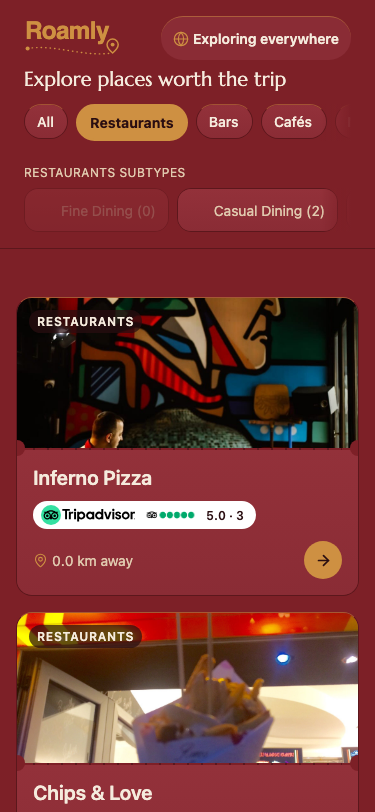
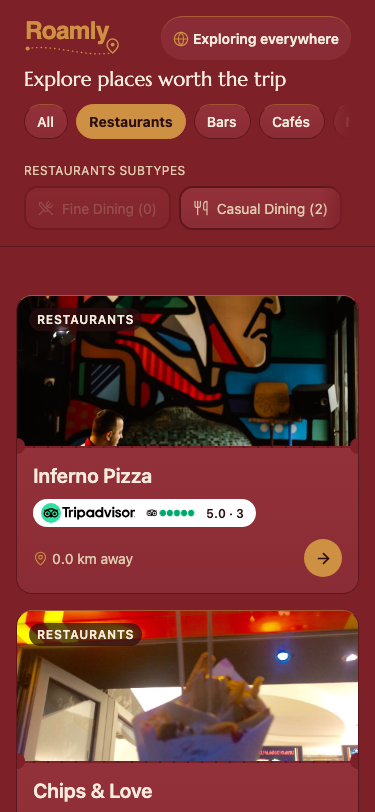
T3: resolve review round 1 — 4 important + 8 minor
Important:
- SubtypeRail icon painted under the unselected gradient (RNW gives Text
  position:relative but not a bare svg) — wrap Icon in a View so it's
  promoted into the same positioned paint layer.
- Subtype counts collapsed to 0 (disabling every chip) during any refetch
  or error, since counts read straight off queryState. Added
  lastLoadedActivities, updated only on success, used for subtypeCounts.
- Fixed the resulting selected-chip-gets-stuck bug: disabled = count===0
  && !selected.
- 4 unhandled AsyncStorage promises in nearbyNudge.ts/travelerMode.ts —
  wrapped in try/catch with safe defaults, root-caused once per module
  instead of patching each call site.

Minor:
- FilterChip/SubtypeRail: focus/selected no longer bump border width
  (colour-only change, matches "never a width change" rule).
- feedContext: widened the ponytail comment + added a real (if filler)
  Nearby+traveler line instead of silently falling through to non-traveler
  copy; flagged as a design gap (no reverse-geocode to name a city for
  Nearby).
- FeedHeader now reads hourAtLastFocus, not a live clock read, so the
  context line can't disagree with the frozen pill order.
- useNearbyLocation.checkPermission now resolves granted/not, and the Feed
  uses it to silently resolve an already-granted permission's fix instead
  of showing a stale "Turn on location" nudge forever.
- Added a real before/after pill-order assertion around a category tap
[…]

diff --git a/app/src/features/activity-list/ActivityListScreen.tsx b/app/src/features/activity-list/ActivityListScreen.tsx
@@ -66,6 +66,13 @@ export function ActivityListScreen({
   const [queryState, setQueryState] = useState<QueryState>(() =>
     initialActivities !== undefined ? { status: 'loaded', activities: initialActivities } : { status: 'loading' }
   );
+  // The subtype rail's counts read from this, not from `queryState`
+  // directly — `queryState` collapses to no-activities during a refetch or
+  // on error, which would otherwise zero every subtype's count and disable
+  // it (including a chip the user has *selected*, trapping them). This only
+  // ever updates on a successful fetch, so it holds the last real data
+  // across any loading/error state in between.
+  const [lastLoadedActivities, setLastLoadedActivities] = useState<Activity[]>(() => initialActivities ?? []);
   const [sheetVisible, setSheetVisible] = useState(false);
   const [selectedActivity, setSelectedActivity] = useState<Activity | null>(null);
   const filtersRequestSeq = useRef(0);
@@ -92,6 +99,7 @@ export function ActivityListScreen({
   function applyResult(result: ActivitiesQueryResult) {
     if (result.status === 'success') {
       setQueryState({ status: 'loaded', activities: result.activities });
+      setLastLoadedActivities(result.activities);
     } else {
       setQueryState({ status: 'error', message: result.message });
     }
@@ -184,10 +192,19 @@ export function ActivityListScreen({
     isNearbyNudgeDismissed().then(setNudgeDismissed);
   }, []);
   useEffect(() => {
-    if (appliedScopeDraft.scope === 'anywhere' && !appliedScopeDraft.coordinates) {
-      nearby.checkPermission();
-    }
-    // eslint-disable-next-line react-hooks/exhaustive-deps -- nearby.checkPermission's identity is stable (useCallback, no deps)
+    if (appliedScopeDraft.scope !== 'anywhere' || appliedScopeDraft.coordinates) return;
+    // If permission was already granted (e.g. in an earlier session/screen),
+    // `requestLocation` never shows an OS prompt for an already-granted
+    // permission — it just resolves the fix quietly. Without this, a user
+    // who'd already granted location would still see the "Turn on location"
+    // nudge forever, since nothing here had ever actually fetched a fix.
+    nearby.checkPermission().then((granted) => {
+      if (!granted) return;
+      nearby.requestLocation().then((coordinates) => {
+        if (coordinates) setAppliedScopeDraft((prev) => ({ ...prev, coordinates }));
+      });
+    });
+    // eslint-disable-next-line react-hooks/exhaustive-deps -- nearby.checkPermission/requestLocation identities are stable (useCallback, no deps)
   }, [appliedScopeDraft.scope, appliedScopeDraft.coordinates]);
 
   useEffect(() => {
@@ -251,7 +268,15 @@ export function ActivityListScreen({
   // merely "no device coordinates").
   const unanchoredAnywhere =
     appliedScopeDraft.scope === 'anywhere' && !appliedScopeDraft.coordinates && appliedScopeDraft.cities.length === 0;
-  const showAskNudge = unanchoredAnywhere && nearby.state.status !== 'denied' && !nudgeDismissed;
+  // 'locating'/'requesting-permission' only happen transiently while the
+  // effect above is silently resolving an already-granted permission's fix
+  // — neither nudge shows during that brief window (showing "Turn on
+  // location" would be actively wrong: it's already on). 'idle' covers both
+  // "not asked yet" and "briefly, before the mount check resolves".
+  const showAskNudge =
+    unanchoredAnywhere &&
+    !nudgeDismissed &&
+    (nearby.state.status === 'idle' || nearby.state.status === 'unavailable');
   const showCityNudge = unanchoredAnywhere && nearby.state.status === 'denied';
 
   const renderItem = useCallback(
@@ -291,10 +316,14 @@ export function ActivityListScreen({
             sticky-after-collapse). Upgrade path: an Animated.ScrollView +
             interpolated header height, if this is flagged as a real gap. */}
         <View style={styles.header}>
+          {/* `hourAtLastFocus`, not a live `new Date().getHours()` — the
+              pill row's own order is frozen to this same value (see
+              `refreshAdaptivity`), so the context line and the row never
+              disagree across an hour-bucket boundary mid-session. */}
           <FeedHeader
             scope={appliedScopeDraft.scope}
             cities={appliedScopeDraft.cities}
-            hour={new Date().getHours()}
+            hour={hourAtLastFocus}
             travelerMode={travelerMode}
             onOpenScope={() => setSheetVisible(true)}
           />
@@ -308,7 +337,7 @@ export function ActivityListScreen({
             <SubtypeRail
               key={option.value}
               category={option.value}
-              counts={subtypeCounts(categoryScopedActivities, option.value)}
+              counts={subtypeCounts(lastLoadedActivities, option.value)}
               selectedSubtypes={appliedFilters.subtypes}
               onToggle={handleToggleSubtype}
             />

diff --git a/app/src/features/activity-list/SubtypeRail.tsx b/app/src/features/activity-list/SubtypeRail.tsx
@@ -101,7 +101,12 @@ function SubtypeChip({
     // eslint-disable-next-line react-hooks/exhaustive-deps -- entrance/index are stable per chip instance
   }, []);
 
-  const disabled = count === 0;
+  // A currently-selected chip stays interactive even if its live count
+  // drops to 0 during a refetch/scope change — otherwise a user's own
+  // selection could become permanently stuck with no way to deselect it
+  // (the category pill and EmptyState's Clear filters would be the only
+  // remaining escapes).
+  const disabled = count === 0 && !selected;
 
   return (
     <Animated.View
@@ -126,7 +131,15 @@ function SubtypeChip({
         {!selected && (
           <LinearGradient colors={colors.surfaceGradient} style={StyleSheet.absoluteFill} pointerEvents="none" />
         )}
-        <Icon size={16} color={disabled ? colors.textDisabled : selected ? colors.primary : colors.textMuted} strokeWidth={1.75} />
+        {/* Wrapped in a View — react-native-web gives a bare `<svg>` (the
+            lucide icon) no `position`, so it stays in the "static" paint
+            layer, below the absolutely-positioned gradient regardless of
+            DOM order; a plain View defaults to `position:'relative'` (like
+            RNW's own Text), promoting the icon into the same positioned
+            layer so it paints above the gradient, per its later DOM order. */}
+        <View>
+          <Icon size={16} color={disabled ? colors.textDisabled : selected ? colors.primary : colors.textMuted} strokeWidth={1.75} />
+        </View>
         <Text style={[styles.label, selected && styles.labelSelected, disabled && styles.labelDisabled]} numberOfLines={1}>
           {label} ({count})
         </Text>
@@ -160,7 +173,10 @@ const styles = StyleSheet.create({
     gap: space[2],
     minHeight: 44,
     borderRadius: CHIP_RADIUS,
-    borderWidth: 1,
+    // Constant 2px across selected/unselected (colour-only change) — same
+    // "never a bare hairline, never a width change" rule the category row
+    // follows; a 1px->2px jump on select would reflow the chip by a pixel.
+    borderWidth: 2,
     borderColor: colors.border,
     paddingHorizontal: space[3],
     overflow: 'hidden',
@@ -168,7 +184,6 @@ const styles = StyleSheet.create({
     outlineWidth: 0,
   },
   chipSelected: {
-    borderWidth: 2,
     borderColor: colors.primary,
     backgroundColor: SELECTED_TINT,
   },

diff --git a/app/src/features/activity-list/ActivityListScreen.test.tsx b/app/src/features/activity-list/ActivityListScreen.test.tsx
@@ -211,6 +211,41 @@ describe('ActivityListScreen', () => {
       expect(screen.getByRole('button', { name: 'All categories' })).toBeTruthy();
     });
 
+    it('tapping a pill never reorders the row — same pill stays in the same slot, including itself', async () => {
+      mockedQuery.mockResolvedValueOnce(successResult([activity]));
+      render(<ActivityListScreen selection={{ scope: 'nearby', coordinates: COORDINATES }} onBack={jest.fn()} />);
+      await waitFor(() => expect(screen.getByText('Skadarlija Food Walk')).toBeTruthy());
+
+      const categoryLabels = [
+        'All', 'Restaurants', 'Cafés', 'Bars', 'Nightlife', 'Nature', 'Sport', 'Kids', 'Culture', 'Art', 'Wellness', 'Shopping', 'Entertainment', 'Tours & Experiences',
+      ];
+      function categoryPillOrder() {
+        return screen
+          .getAllByRole('button')
+          .map((b) => (b.props.accessibilityLabel as string).replace(/, selected$/, '').replace(/^All categories$/, 'All'))
+          .filter((name) => categoryLabels.includes(name));
+      }
+
+      // Captured, not asserted against a fixed taxonomy order — real wall-
+      // clock time at test-run may float 2-3 categories to the front
+      // (categoryOrder.ts); this test only cares that selecting never
+      // changes whatever order it started in.
+      const before = categoryPillOrder();
+      expect(before).toHaveLength(categoryLabels.length);
+
+      mockedQuery.mockResolvedValueOnce(successResult([activity]));
+      await act(async () => {
+        fireEvent.press(screen.getByRole('button', { name: 'Sport' }));
+      });
+      expect(categoryPillOrder()).toEqual(before);
+
+      mockedQuery.mockResolvedValueOnce(successResult([activity]));
+      await act(async () => {
+        fireEvent.press(screen.getByRole('button', { name: 'Sport, selected' }));
+      });
+      expect(categoryPillOrder()).toEqual(before);
+    });
+
     it('deselecting the last selected category returns All to active and drops categories from the request', async () => {
       mockedQuery.mockResolvedValueOnce(successResult([activity]));
       render(<ActivityListScreen selection={{ scope: 'nearby', coordinates: COORDINATES }} onBack={jest.fn()} />);

diff --git a/app/src/features/activity-list/feedContext.ts b/app/src/features/activity-list/feedContext.ts
@@ -21,9 +21,17 @@ export function scopePillInfo(scope: Scope, cities: CitySuggestion[]): ScopePill
 // ponytail: design-spec.md T3's context-line examples name four cases
 // explicitly ("This morning near you" / "Tonight near you" / "Exploring
 // Barcelona & Lisbon" / traveler's "New in town? The best of {city}") but
-// don't cover every reachable state (Nearby at midday, Anywhere cold start)
-// — the unlisted branches below are this task's own filler copy, not spec
-// text. Swap for real copy if a design pass ever covers these two states.
+// don't cover every reachable state — this task's own filler copy below,
+// not spec text, for THREE unlisted cases: Nearby at midday, Anywhere cold
+// start, and — the one the spec's own traveler line can't reach at all —
+// traveler mode while scope is Nearby. Traveler detection only needs a
+// device fix (works for Nearby), but naming a city needs a *chosen* city
+// (`cities[0]`, Anywhere-only) — there's no reverse-geocode in this app to
+// turn a Nearby coordinate into a city name, so Nearby traveler mode can
+// never render the spec's literal "{city}" line. Real design gap, not
+// something to resolve by inventing a geocoding feature inline; flagged for
+// the designer/orchestrator. Filler below at least surfaces the traveler
+// signal instead of silently reusing the non-traveler Nearby copy.
 export function contextLine(
   scope: Scope,
   cities: CitySuggestion[],
@@ -31,6 +39,7 @@ export function contextLine(
   travelerMode: boolean
 ): string {
   if (scope === 'nearby') {
+    if (travelerMode) return 'New in town? Worth seeing nearby';
     const bucket = timeBucket(hour);
     if (bucket === 'morning') return 'This morning near you';
     if (bucket === 'evening' || bucket === 'late-night') return 'Tonight near you';

diff --git a/app/src/features/activity-list/travelerMode.ts b/app/src/features/activity-list/travelerMode.ts
@@ -10,10 +10,13 @@ const MAX_SAMPLES = 10;
 const MIN_SAMPLES_FOR_HOME_BASE = 3;
 export const TRAVELER_DISTANCE_KM = 150;
 
+// APP_STANDARDS.md Error handling: a rejected/garbled read resolves to "no
+// samples yet" here, once — every caller (including `recordHomeBaseSample`
+// below) gets a safe value instead of an uncaught rejection.
 export async function getHomeBaseSamples(): Promise<Coordinates[]> {
-  const raw = await AsyncStorage.getItem(HOME_BASE_KEY);
-  if (!raw) return [];
   try {
+    const raw = await AsyncStorage.getItem(HOME_BASE_KEY);
+    if (!raw) return [];
     return JSON.parse(raw) as Coordinates[];
   } catch {
     return [];
@@ -22,11 +25,17 @@ export async function getHomeBaseSamples(): Promise<Coordinates[]> {
 
 // Called whenever a fresh, granted device-location fix comes in (Nearby
 // scope always implies one). Appends and caps at MAX_SAMPLES, dropping the
-// oldest — a plain FIFO ring, no weighting/decay.
+// oldest — a plain FIFO ring, no weighting/decay. A failed write silently
+// drops this one sample (best-effort adaptivity signal, nothing user-facing
+// to retry/error into) rather than throwing.
 export async function recordHomeBaseSample(sample: Coordinates): Promise<void> {
-  const samples = await getHomeBaseSamples();
-  const next = [...samples, sample].slice(-MAX_SAMPLES);
-  await AsyncStorage.setItem(HOME_BASE_KEY, JSON.stringify(next));
+  try {
+    const samples = await getHomeBaseSamples();
+    const next = [...samples, sample].slice(-MAX_SAMPLES);
+    await AsyncStorage.setItem(HOME_BASE_KEY, JSON.stringify(next));
+  } catch {
+    // ponytail: swallowed — see comment above, same low-stakes local flag reasoning.
+  }
 }
 
 function median(values: number[]): number {

diff --git a/app/src/features/scope-picker/useNearbyLocation.ts b/app/src/features/scope-picker/useNearbyLocation.ts
@@ -19,9 +19,12 @@ type UseNearbyLocation = {
    * caller detect an already-denied permission on mount/open (e.g. the Scope
    * sheet's Nearby pane) without requestLocation's "Turn on location" tap,
    * which would OS-prompt an undetermined user just by checking. Leaves
-   * `state` alone unless already denied.
+   * `state` alone unless already denied. Resolves `true` when permission is
+   * already granted — lets a caller (e.g. the Feed's nearby-nudge) tell
+   * "already granted, just needs a fix" apart from "genuinely not asked yet"
+   * without itself duplicating the permission-status lookup.
    */
-  checkPermission: () => Promise<void>;
+  checkPermission: () => Promise<boolean>;
 };
 
 // Encapsulates a scope ticket's async location flow (permission check →
@@ -35,11 +38,12 @@ export function useNearbyLocation(): UseNearbyLocation {
 
   // Shares requestLocation's first check (below) but stops there — no
   // request prompt, no GPS fetch — so it's safe to call passively on mount.
-  const checkPermission = useCallback(async (): Promise<void> => {
+  const checkPermission = useCallback(async (): Promise<boolean> => {
     const current = await Location.getForegroundPermissionsAsync();
     if (current.status === Location.PermissionStatus.DENIED) {
       setState({ status: 'denied' });
     }
+    return current.status === Location.PermissionStatus.GRANTED;
   }, []);
 
   const requestLocation = useCallback(async (): Promise<Coordinates | null> => {

diff --git a/app/src/features/activity-list/nearbyNudge.ts b/app/src/features/activity-list/nearbyNudge.ts
@@ -7,10 +7,25 @@ import AsyncStorage from '@react-native-async-storage/async-storage';
 // AsyncStorage directly with its own key rather than sharing a wrapper.
 const NEARBY_NUDGE_DISMISSED_KEY = 'roamly:nearby-nudge-dismissed';
 
+// APP_STANDARDS.md Error handling: a rejected AsyncStorage call is handled
+// here, once, rather than trusting every caller to remember its own
+// `.catch` — a read failure just means "not dismissed yet" (safe default,
+// same as never having dismissed).
 export async function isNearbyNudgeDismissed(): Promise<boolean> {
-  return (await AsyncStorage.getItem(NEARBY_NUDGE_DISMISSED_KEY)) === 'true';
+  try {
+    return (await AsyncStorage.getItem(NEARBY_NUDGE_DISMISSED_KEY)) === 'true';
+  } catch {
+    return false;
+  }
 }
 
+// A failed write silently drops the dismissal (the nudge may reappear next
+// launch) rather than surfacing an error for a low-stakes, no-UI local flag.
 export async function dismissNearbyNudge(): Promise<void> {
-  await AsyncStorage.setItem(NEARBY_NUDGE_DISMISSED_KEY, 'true');
+  try {
+    await AsyncStorage.setItem(NEARBY_NUDGE_DISMISSED_KEY, 'true');
+  } catch {
+    // ponytail: swallowed — no UI reachable from this local-only flag to
+    // surface a retry/error into; worst case the nudge shows again next launch.
+  }
 }

diff --git a/app/src/features/scope-picker/useNearbyLocation.test.ts b/app/src/features/scope-picker/useNearbyLocation.test.ts
@@ -103,5 +103,25 @@ describe('useNearbyLocation', () => {
       expect(result.current.state).toEqual({ status: 'idle' });
       expect(mockedLocation.requestForegroundPermissionsAsync).not.toHaveBeenCalled();
     });
+
+    it('resolves true when permission is already granted', async () => {
+      mockedLocation.getForegroundPermissionsAsync.mockResolvedValue({ status: 'granted' } as never);
+      const { result } = renderHook(() => useNearbyLocation());
+      let granted!: boolean;
+      await act(async () => {
+        granted = await result.current.checkPermission();
+      });
+      expect(granted).toBe(true);
+    });
+
+    it('resolves false when undetermined or denied', async () => {
+      mockedLocation.getForegroundPermissionsAsync.mockResolvedValue({ status: 'undetermined' } as never);
+      const { result } = renderHook(() => useNearbyLocation());
+      let granted!: boolean;
+      await act(async () => {
+        granted = await result.current.checkPermission();
+      });
+      expect(granted).toBe(false);
+    });
   });
 });

diff --git a/app/src/features/activity-list/SubtypeRail.test.tsx b/app/src/features/activity-list/SubtypeRail.test.tsx
@@ -67,6 +67,18 @@ describe('SubtypeRail', () => {
     expect(chip.props.accessibilityState).toMatchObject({ selected: true });
   });
 
+  it('a selected chip stays enabled even when its live count drops to 0 (e.g. mid-refetch) — must stay deselectable', async () => {
+    const onToggle = jest.fn();
+    render(
+      <SubtypeRail category="sport" counts={{ climbing_gym: 0 }} selectedSubtypes={['climbing_gym']} onToggle={onToggle} />
+    );
+    await flush();
+    const chip = screen.getByRole('button', { name: /climbing gym.*0 results/i });
+    expect(chip.props.accessibilityState).toMatchObject({ selected: true, disabled: false });
+    fireEvent.press(chip);
+    expect(onToggle).toHaveBeenCalledWith('climbing_gym');
+  });
+
   it('reduced motion renders chips fully visible immediately (no stagger to wait out)', async () => {
     render(<SubtypeRail category="cafes" counts={{}} selectedSubtypes={[]} onToggle={jest.fn()} />);
     await flush();

diff --git a/app/src/components/FilterChip.test.tsx b/app/src/components/FilterChip.test.tsx
@@ -45,11 +45,11 @@ describe('FilterChip', () => {
       expect(onPress).toHaveBeenCalledTimes(1);
     });
 
-    it('focus swaps to the 2px primary focus border', () => {
+    it('focus swaps the border colour only — width stays the constant 1.5px (design-spec.md T3)', () => {
       render(<FilterChip variant="segment" label="Culture" selected={false} onPress={jest.fn()} />);
       const chip = screen.getByRole('button', { name: 'Culture' });
       fireEvent(chip, 'focus');
-      expect(StyleSheet.flatten(chip.props.style)).toMatchObject({ borderWidth: 2, borderColor: '#CE9042' });
+      expect(StyleSheet.flatten(chip.props.style)).toMatchObject({ borderWidth: 1.5, borderColor: '#CE9042' });
     });
 
     it('T4: accessibilityLabel overrides the derived name (visible label unaffected)', () => {

diff --git a/app/src/features/activity-list/travelerMode.test.ts b/app/src/features/activity-list/travelerMode.test.ts
@@ -89,4 +89,14 @@ describe('home base sample persistence', () => {
     expect(samples[0]).toEqual({ latitude: 2, longitude: 2 });
     expect(samples[9]).toEqual({ latitude: 11, longitude: 11 });
   });
+
+  it('a rejected read resolves to an empty list instead of throwing', async () => {
+    jest.spyOn(AsyncStorage, 'getItem').mockRejectedValueOnce(new Error('boom'));
+    await expect(getHomeBaseSamples()).resolves.toEqual([]);
+  });
+
+  it('a rejected write resolves instead of throwing (sample just does not persist)', async () => {
+    jest.spyOn(AsyncStorage, 'setItem').mockRejectedValueOnce(new Error('boom'));
+    await expect(recordHomeBaseSample(BELGRADE)).resolves.toBeUndefined();
+  });
 });

diff --git a/app/src/features/activity-list/feedContext.test.ts b/app/src/features/activity-list/feedContext.test.ts
@@ -34,6 +34,11 @@ describe('contextLine', () => {
     expect(contextLine('nearby', [], 13, false)).toBe('Right now, near you');
   });
 
+  it('nearby + traveler mode surfaces the traveler signal instead of the plain time-of-day copy (no city name available for Nearby)', () => {
+    expect(contextLine('nearby', [], 7, true)).toBe('New in town? Worth seeing nearby');
+    expect(contextLine('nearby', [], 19, true)).toBe('New in town? Worth seeing nearby');
+  });
+
   it('anywhere with cities, no traveler signal -> "Exploring {cities}"', () => {
     expect(contextLine('anywhere', [city('Barcelona'), city('Lisbon')], 13, false)).toBe('Exploring Barcelona & Lisbon');
   });
